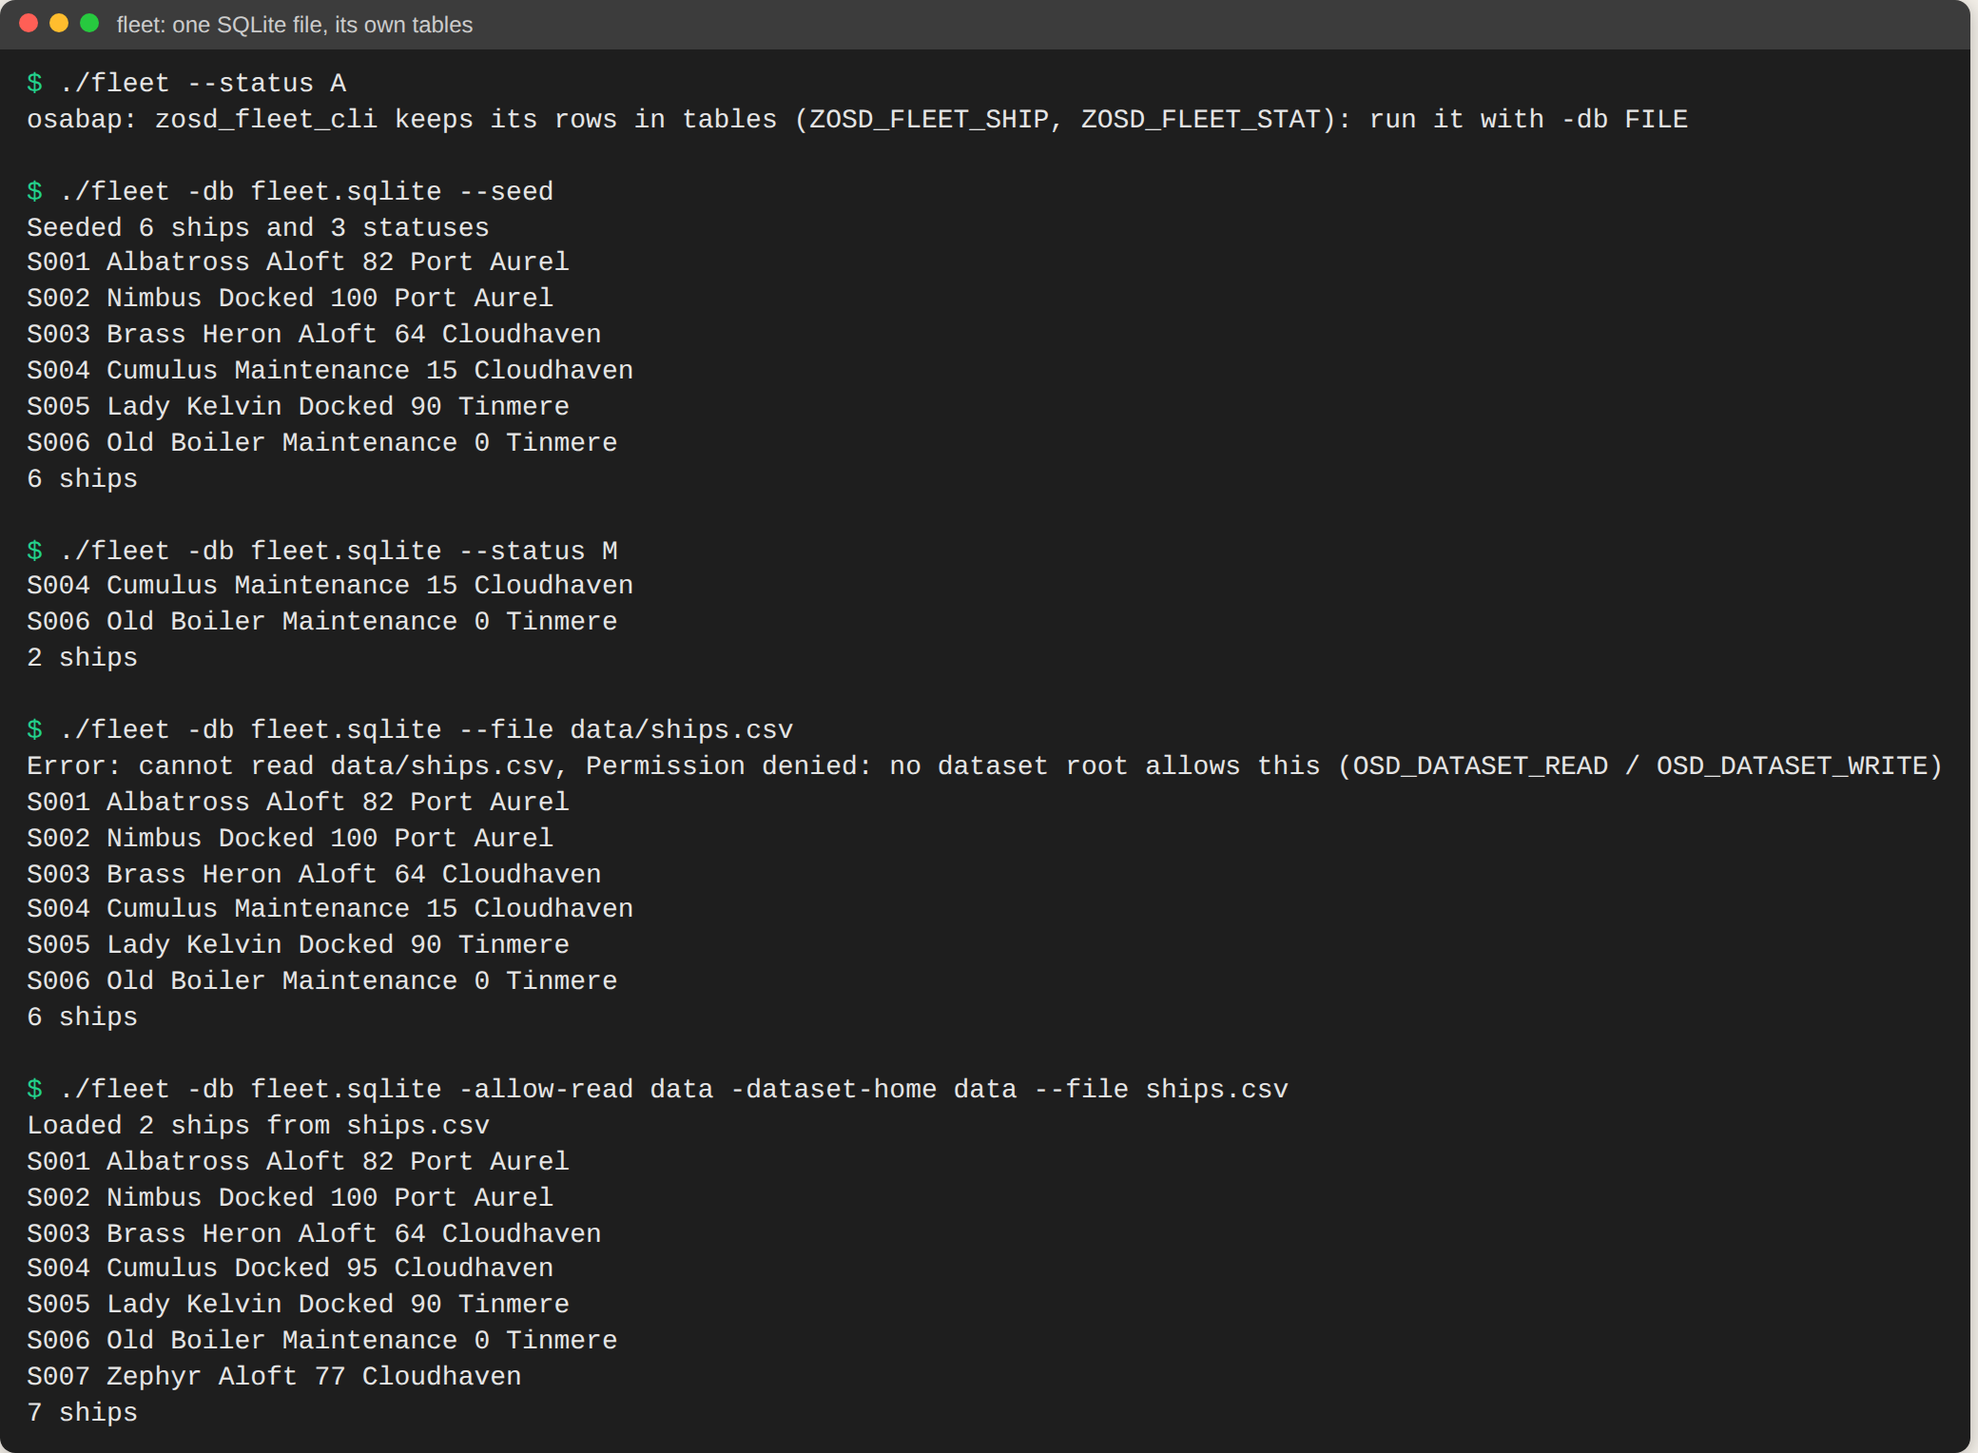
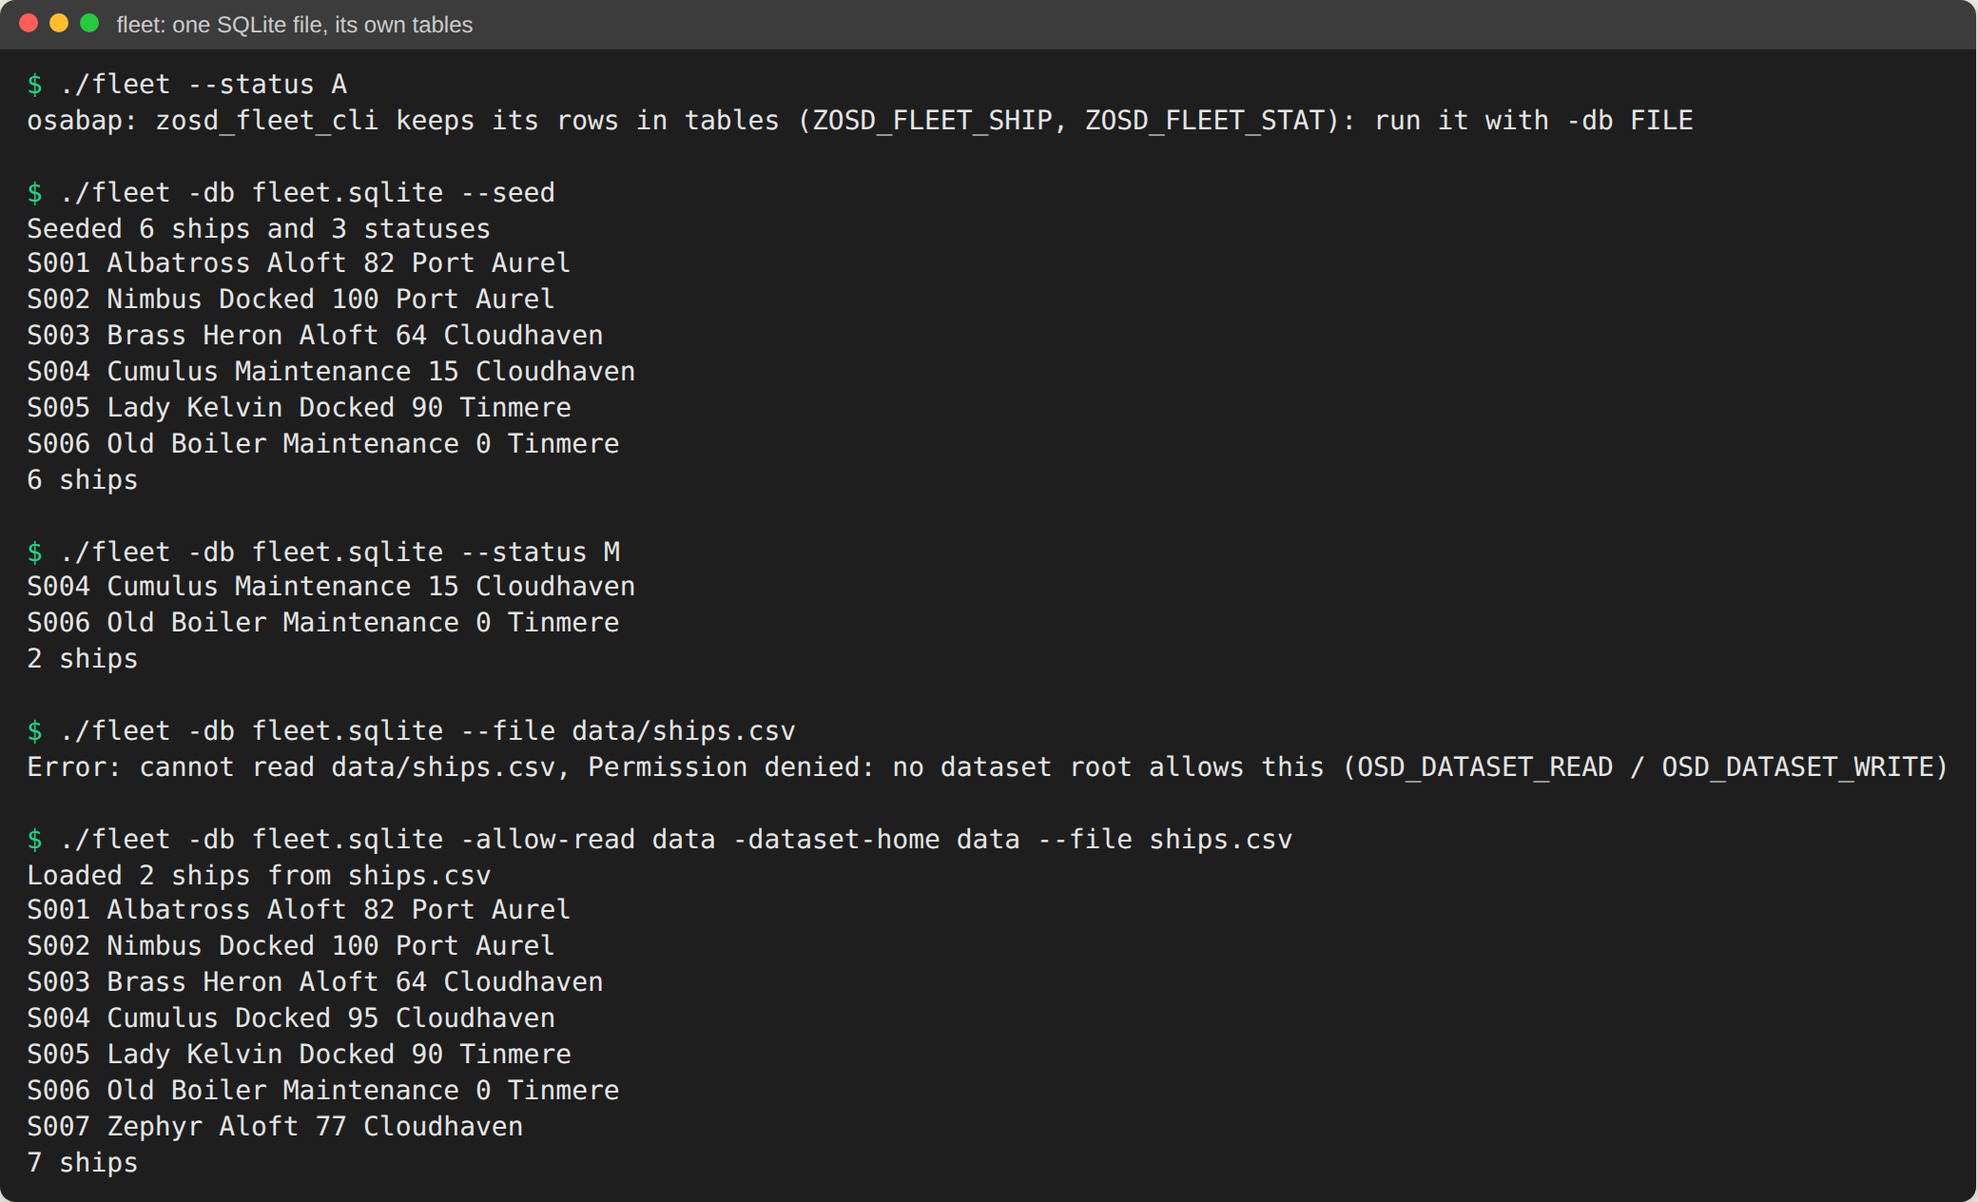
Fleet CLI: a refused import ends with MESSAGE TYPE 'E' and exit 1
open-steamgate #362 compiles a MESSAGE that ends the run: the lines before it
go to stdout, the message to stderr, exit 1. The report drops its
WRITE + RETURN workaround; test/cli.mjs checks rc 1, the message on stderr,
no list after it, and (an eleventh check) that nothing of the file was kept.
Chapter 14 EN/RU and appendix A follow; pictures reshot.

Claude-Session: https://claude.ai/code/session_018Djywwje7kdEq6CEr4LG73

diff --git a/book/ru/14-cli.md b/book/ru/14-cli.md
@@ -21,8 +21,8 @@ zosd_fleet_cli.prog.abap
 
 - **командная строка**: каждый `PARAMETERS` и `SELECT-OPTIONS` становится
   опцией, `--status M`, `--seed`, `--file ships.csv`; список (`WRITE`) идет в
-  stdout, сообщения - в stderr, код выхода 0, 1 (ошибка выполнения) или 2
-  (неподдерживаемая операция);
+  stdout, сообщения - в stderr, код выхода 0, 1 (`MESSAGE` типа `E` или `A`
+  либо ошибка выполнения) или 2 (неподдерживаемая операция);
 - **форма в терминале** (TUI): запущенная без аргументов в терминале,
   программа показывает экран выбора как форму;
 - **SAP GUI**: `-sapgui` отдает тот же экран выбора настоящему SAP GUI по DIAG
@@ -49,7 +49,7 @@ OSD_HOME=/path/to/open-steamgate node test/cli.mjs --keep /tmp/fleet-cli
 
 Скрипт запускает на отчете `node tools/gogen/osabap.mjs` из open-steamgate,
 копирует результат в `/tmp/fleet-cli/run/fleet` и прогоняет шаги ниже и еще
-несколько - всего десять проверок. С `GOOS`/`GOARCH` другой платформы
+несколько - всего одиннадцать проверок. С `GOOS`/`GOARCH` другой платформы
 (например, `GOOS=windows GOARCH=arm64`) он только собирает и оставляет там
 `run/fleet.exe`, чтобы скопировать его на ту машину. В VS Code F8 на отчете
 (`osd run`) собирает и запускает его так же.
@@ -70,7 +70,7 @@ OSD_HOME=/path/to/open-steamgate node test/cli.mjs --keep /tmp/fleet-cli
    `S006 Old Boiler`, `2 ships`.
 5. `./fleet -db fleet.sqlite --file data/ships.csv`. Ожидается:
    `Error: cannot read data/ships.csv, Permission denied: no dataset root
-   allows this`, затем шесть кораблей. `OPEN DATASET` работает в песочнице:
+   allows this` в stderr и код выхода 1. `OPEN DATASET` работает в песочнице:
    без разрешения отказывается любой файл.
 6. `./fleet -db fleet.sqlite -allow-read data -dataset-home data --file ships.csv`.
    Ожидается: `Loaded 2 ships from ships.csv`; `S004 Cumulus` теперь `Docked`,
@@ -80,10 +80,10 @@ OSD_HOME=/path/to/open-steamgate node test/cli.mjs --keep /tmp/fleet-cli
 
 Импорт - все или ничего. Строка, в которой пар не число,
 `S008,Gauge,A,plenty,Tinmere`, дает `Error: ship S008, steam plenty is not a
-number; nothing loaded`, и ни один корабль из файла не сохраняется. Отказ
-импорта все равно завершается с кодом 0: в системе отчет поднял бы
-`MESSAGE ... TYPE 'E'`, а osabap пока такое не компилирует, поэтому отчет
-пишет ошибку и выходит. До тех пор скрипт ищет `Error:` в выводе.
+number; nothing loaded`, и ни один корабль из файла не сохраняется. Отчет
+откатывает изменения и завершается через `MESSAGE ... TYPE 'E'`, как в
+системе: строки, написанные до него, идут в stdout, сообщение - в stderr, код
+выхода 1, так что скрипт это видит.
 
 ## Та же программа в виде формы
 
@@ -114,9 +114,10 @@ number; nothing loaded`, и ни один корабль из файла не с
   `GROUP BY` и встроенные `@DATA( )` - нет, и одна такая форма делала
   недоступным весь метод. `main` компилирует все восемнадцать; этот отчет держится
   простого `SELECT ... INTO TABLE` в стандартные таблицы.
-- **Пока нет**: `MESSAGE ... TYPE 'E'` (отчет пишет `Error: ...`), строкового
-  шаблона внутри `WRITE` (отчет сначала кладет его в переменную),
-  `CATCH ... INTO` глобальной переменной и текстов экрана выбора в подписях.
+- **Пока нет**: запятой в строковом шаблоне цепочки `WRITE:` (отчет сначала
+  кладет сообщение в переменную), `CATCH ... INTO` глобальной переменной и
+  текстов экрана выбора в подписях. `MESSAGE`, завершающему запуск, нужен
+  `main` open-steamgate начиная с #362.
 - **Файлы** через `OPEN`/`READ`/`TRANSFER DATASET` и `CL_GUI_FRONTEND_SERVICES`,
   внутри корней, которые разрешают `-allow-read` / `-allow-write`.
 - **Классы** рядом с отчетом или из папок `--lib`; классы open-abap-core,
@@ -137,7 +138,7 @@ open-steamgate.
 
 Вся логика программы - это `START-OF-SELECTION` отчета:
 
-<!-- code: cli/fleet/zosd_fleet_cli.prog.abap lines 32-65 -->
+<!-- code: cli/fleet/zosd_fleet_cli.prog.abap lines 31-64 -->
 ```abap
 START-OF-SELECTION.
 * a selection screen on a system upper-cases P_STATUS; the command line does not
@@ -177,15 +178,14 @@ START-OF-SELECTION.
 
 И импорт CSV: обычные операторы `DATASET`, один LUW, откат на первой плохой строке:
 
-<!-- code: cli/fleet/zosd_fleet_cli.prog.abap lines 105-161 -->
+<!-- code: cli/fleet/zosd_fleet_cli.prog.abap lines 103-155 -->
 ```abap
 FORM load.
   DATA lv_subrc TYPE i.
   OPEN DATASET p_file FOR INPUT IN TEXT MODE ENCODING UTF-8 MESSAGE gv_msg.
   IF sy-subrc <> 0.
     gv_out = |Error: cannot read { p_file }, { gv_msg }|.
-    WRITE / gv_out.
-    RETURN.
+    MESSAGE gv_out TYPE 'E'.
   ENDIF.
   DO.
     CLEAR gv_line.
@@ -209,16 +209,14 @@ FORM load.
           CLOSE DATASET p_file.
           ROLLBACK WORK.
           gv_out = |Error: ship { gs_ship-ship_id }, steam { gv_steam } is not a number; nothing loaded|.
-          WRITE / gv_out.
-          RETURN.
+          MESSAGE gv_out TYPE 'E'.
       ENDTRY.
       MODIFY zosd_fleet_ship FROM gs_ship.
       IF sy-subrc <> 0.
         CLOSE DATASET p_file.
         ROLLBACK WORK.
         gv_out = |Error: ship { gs_ship-ship_id } could not be written; nothing loaded|.
-        WRITE / gv_out.
-        RETURN.
+        MESSAGE gv_out TYPE 'E'.
       ENDIF.
       gv_loaded = gv_loaded + 1.
     ENDIF.
@@ -230,8 +228,7 @@ FORM load.
   IF lv_subrc > 4.
     ROLLBACK WORK.
     gv_out = |Error: cannot read { p_file } to its end; nothing loaded|.
-    WRITE / gv_out.
-    RETURN.
+    MESSAGE gv_out TYPE 'E'.
   ENDIF.
   COMMIT WORK.
   WRITE: / 'Loaded', gv_loaded, 'ships from', p_file.

diff --git a/book/14-cli.md b/book/14-cli.md
@@ -20,8 +20,8 @@ The selection screen stays the program's interface, in three shapes:
 
 - **command line**: each `PARAMETERS` and `SELECT-OPTIONS` becomes an option,
   `--status M`, `--seed`, `--file ships.csv`; the list (`WRITE`) goes to
-  stdout, messages to stderr, exit code 0, 1 (runtime failure) or 2
-  (unsupported operation);
+  stdout, messages to stderr, exit code 0, 1 (a `MESSAGE` of type `E` or
+  `A`, or a runtime failure) or 2 (unsupported operation);
 - **terminal form** (TUI): started without arguments in a terminal, it shows
   the selection screen as a form;
 - **SAP GUI**: `-sapgui` serves the same selection screen to a real SAP GUI
@@ -49,7 +49,7 @@ OSD_HOME=/path/to/open-steamgate node test/cli.mjs --keep /tmp/fleet-cli
 
 It runs open-steamgate's `node tools/gogen/osabap.mjs` on the report, copies
 the result to `/tmp/fleet-cli/run/fleet` and runs the steps below, and a few
-more, as ten checks. With `GOOS`/`GOARCH` for another platform (for example
+more, as eleven checks. With `GOOS`/`GOARCH` for another platform (for example
 `GOOS=windows GOARCH=arm64`) it only builds and leaves `run/fleet.exe` there,
 to copy to that machine. In VS Code, F8 on a report (`osd run`) builds and
 runs it the same way.
@@ -71,8 +71,8 @@ runs it the same way.
    `S006 Old Boiler`, `2 ships`.
 5. `./fleet -db fleet.sqlite --file data/ships.csv`. Expected:
    `Error: cannot read data/ships.csv, Permission denied: no dataset root
-   allows this`, then the six ships. `OPEN DATASET` runs in a sandbox: without
-   a grant every file is refused.
+   allows this` on stderr and exit code 1. `OPEN DATASET` runs in a sandbox:
+   without a grant every file is refused.
 6. `./fleet -db fleet.sqlite -allow-read data -dataset-home data --file ships.csv`.
    Expected: `Loaded 2 ships from ships.csv`; `S004 Cumulus` is now `Docked`
    and a seventh ship, `S007 Zephyr`, is there.
@@ -81,10 +81,10 @@ runs it the same way.
 
 The import is all or nothing. A line whose steam is not a number,
 `S008,Gauge,A,plenty,Tinmere`, gives `Error: ship S008, steam plenty is not a
-number; nothing loaded`, and none of the file's ships are kept. A refused
-import still exits with 0: on a system the report would raise
-`MESSAGE ... TYPE 'E'`, which osabap does not compile yet, so it writes the
-error and returns. Until then, a script looks for `Error:` in the output.
+number; nothing loaded`, and none of the file's ships are kept. The report
+rolls back and ends with `MESSAGE ... TYPE 'E'`, as it would on a system: the
+lines written before it go to stdout, the message to stderr, and the exit
+code is 1, so a script can tell.
 
 ## The same program, as a form
 
@@ -113,10 +113,10 @@ The report is built and checked against open-steamgate's `main`, past 0.4.
   table, a `SELECT` loop with `GROUP BY` and inline `@DATA( )` did not, and
   one of them made the whole method unavailable. `main` compiles all eighteen;
   this report keeps to plain `SELECT ... INTO TABLE` into standard tables.
-- **Not yet**: `MESSAGE ... TYPE 'E'` (the report writes `Error: ...`
-  instead), a string template inside `WRITE` (the report puts it in a
-  variable first), `CATCH ... INTO` a global variable, and the report's
-  selection texts as labels.
+- **Not yet**: a comma inside a string template of a chained `WRITE:` (the
+  report puts the message in a variable first), `CATCH ... INTO` a global
+  variable, and the report's selection texts as labels. A `MESSAGE` that ends
+  the run needs open-steamgate `main` from #362 on.
 - **Files** through `OPEN`/`READ`/`TRANSFER DATASET` and `CL_GUI_FRONTEND_SERVICES`,
   inside the roots `-allow-read` / `-allow-write` grant.
 - **Classes** beside the report or from `--lib` folders; open-abap-core
@@ -135,7 +135,7 @@ The specification is open-steamgate's
 
 The whole program logic is the report's `START-OF-SELECTION`:
 
-<!-- code: cli/fleet/zosd_fleet_cli.prog.abap lines 32-65 -->
+<!-- code: cli/fleet/zosd_fleet_cli.prog.abap lines 31-64 -->
 ```abap
 START-OF-SELECTION.
 * a selection screen on a system upper-cases P_STATUS; the command line does not
@@ -175,15 +175,14 @@ START-OF-SELECTION.
 
 And the CSV import: plain `DATASET` statements, one LUW, rolled back on the first bad line:
 
-<!-- code: cli/fleet/zosd_fleet_cli.prog.abap lines 105-161 -->
+<!-- code: cli/fleet/zosd_fleet_cli.prog.abap lines 103-155 -->
 ```abap
 FORM load.
   DATA lv_subrc TYPE i.
   OPEN DATASET p_file FOR INPUT IN TEXT MODE ENCODING UTF-8 MESSAGE gv_msg.
   IF sy-subrc <> 0.
     gv_out = |Error: cannot read { p_file }, { gv_msg }|.
-    WRITE / gv_out.
-    RETURN.
+    MESSAGE gv_out TYPE 'E'.
   ENDIF.
   DO.
     CLEAR gv_line.
@@ -207,16 +206,14 @@ FORM load.
           CLOSE DATASET p_file.
           ROLLBACK WORK.
           gv_out = |Error: ship { gs_ship-ship_id }, steam { gv_steam } is not a number; nothing loaded|.
-          WRITE / gv_out.
-          RETURN.
+          MESSAGE gv_out TYPE 'E'.
       ENDTRY.
       MODIFY zosd_fleet_ship FROM gs_ship.
       IF sy-subrc <> 0.
         CLOSE DATASET p_file.
         ROLLBACK WORK.
         gv_out = |Error: ship { gs_ship-ship_id } could not be written; nothing loaded|.
-        WRITE / gv_out.
-        RETURN.
+        MESSAGE gv_out TYPE 'E'.
       ENDIF.
       gv_loaded = gv_loaded + 1.
     ENDIF.
@@ -228,8 +225,7 @@ FORM load.
   IF lv_subrc > 4.
     ROLLBACK WORK.
     gv_out = |Error: cannot read { p_file } to its end; nothing loaded|.
-    WRITE / gv_out.
-    RETURN.
+    MESSAGE gv_out TYPE 'E'.
   ENDIF.
   COMMIT WORK.
   WRITE: / 'Loaded', gv_loaded, 'ships from', p_file.

diff --git a/book/ru/90-run-the-checks.md b/book/ru/90-run-the-checks.md
@@ -12,6 +12,6 @@
 | `test/jobs.mjs` | 7: одно задание, обе цепочки, «доктор» | файл SQLite | да |
 | `test/lift.mjs` | поднятая область соответствует своему рецепту | любой | через проверку 16 в slice |
 | `test/l2.mjs` | класс правила L2 и его трассировки совпадают с тем, во что собирается правило (`--write` пересобирает) | любой | через проверку 17 в slice |
-| `test/cli.mjs` | собирает программу командной строки флота через osabap (Go 1.26) и проходит десять проверок главы 14 | файл SQLite | да |
+| `test/cli.mjs` | собирает программу командной строки флота через osabap (Go 1.26) и проходит одиннадцать проверок главы 14 | файл SQLite | да |
 | `test/book-snippets.mjs` | каждый фрагмент кода в книге совпадает с исходником в `src/` (`--write` обновляет их) | не нужен | да, первым шагом |
 | `test/book-shots.mjs` | заново снимает скриншоты в `book/img/` с работающего движка | SQLite | нет, запускается вручную |

diff --git a/book/90-run-the-checks.md b/book/90-run-the-checks.md
@@ -12,7 +12,7 @@ region of `ZCL_OSD_FLEET_LIFT=>AFTER` is what the lift recipe renders from
 | `test/jobs.mjs` | 7: one job, both chains, the doctor | SQLite file | yes |
 | `test/lift.mjs` | the lifted region is in step with its recipe | any | through slice check 16 |
 | `test/l2.mjs` | the L2 rule's class and traces are what the rule builds to (`--write` rebuilds) | any | through slice check 17 |
-| `test/cli.mjs` | builds the fleet's command line program with osabap (Go 1.26) and runs chapter 14's ten checks | SQLite file | yes |
+| `test/cli.mjs` | builds the fleet's command line program with osabap (Go 1.26) and runs chapter 14's eleven checks | SQLite file | yes |
 | `test/book-snippets.mjs` | every code excerpt in the book equals its source in `src/` (`--write` refreshes them) | none needed | yes, first step |
 | `test/book-shots.mjs` | retakes the screenshots in `book/img/` from a running engine | SQLite | no, run by hand |
 
